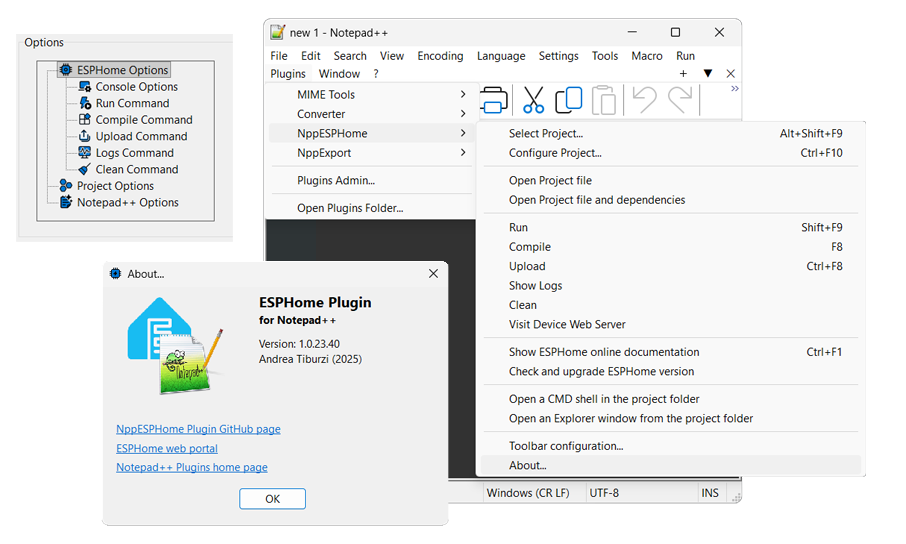
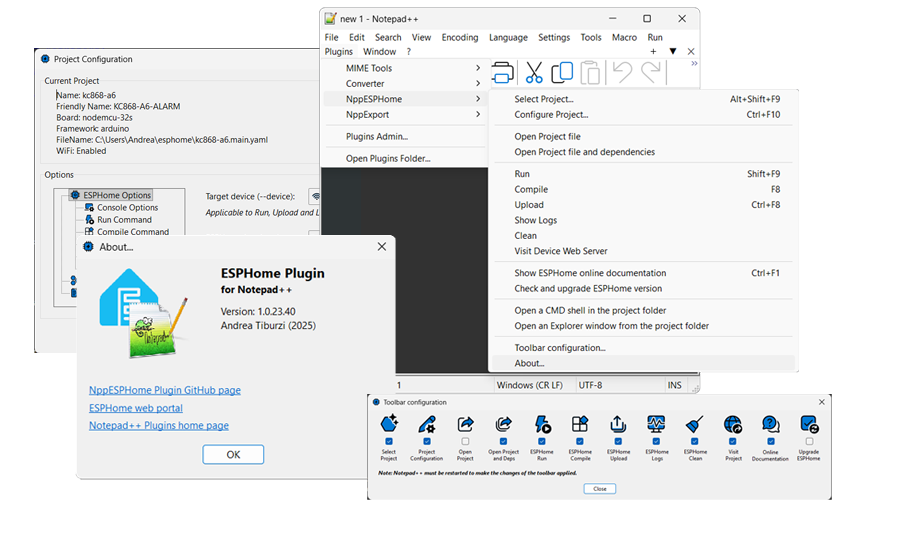
Readme update

diff --git a/README.md b/README.md
@@ -2,7 +2,7 @@
 
 A **Notepad++** plugin written in **Delphi** to directly interact with **ESPHome** and easily manage related projects in Windows environment.
 
-![NppESPHome in action](Art/NppESPHome.png)
+![NppESPHome in action](Art/group.png)
 
 ## Why?
 
@@ -14,27 +14,27 @@ That’s how the idea for this plugin was born.
 
 ## Features
 
-* Streamlined workflow – Designed around the ESPHome project concept, the plugin ensures a smooth, intuitive, and productive development experience.
+* **Streamlined workflow** – Designed around the ESPHome project concept, the plugin ensures a smooth, intuitive, and productive development experience.
 
-* Project configuration dialogs – Quickly select and configure your current project with dedicated setup windows directly inside Notepad++, fully supporting Light or Dark modes.
+* **Project configuration dialogs** – Quickly select and configure your current project with dedicated setup windows directly inside Notepad++, fully supporting Light or Dark modes.
 
-* One-click ESPHome commands – Automatically generates command lines for Run, Compile, Upload, Clean, and Logs. All commands are accessible from the plugin menu or can be assigned to custom keyboard shortcuts in Notepad++.
+* **One-click ESPHome commands** – Automatically generates command lines for Run, Compile, Upload, Clean, and Logs. All commands are accessible from the plugin menu or can be assigned to custom keyboard shortcuts in Notepad++.
 
-* Smart YAML validation – Parses your project’s YAML file to check validity and detect whether it includes Online or WebServer features.
+* **Smart YAML validation** – Parses your project’s YAML file to check validity and detect whether it includes Online or WebServer features.
 
-* Flexible device communication – Configure ESP device communication ports with automatic detection of active serial and network connections, making uploads and interaction effortless.
+* **Flexible device communication** – Configure ESP device communication ports with automatic detection of active serial and network connections, making uploads and interaction effortless.
 
-* Command customization – Personalize options for each ESPHome command and save them with your project settings.
+* **Command customization** – Personalize options for each ESPHome command and save them with your project settings.
 
-* Advanced configuration – Control logging behavior, automatic console closing, and define custom command-line arguments for advanced workflows.
+* **Advanced configuration** – Control logging behavior, automatic console closing, and define custom command-line arguments for advanced workflows.
 
-* Auto-save integration – Automatically saves your project files before executing ESPHome commands, helping you keep focus on development.
+* **Auto-save integration** – Automatically saves your project files before executing ESPHome commands, helping you keep focus on development.
 
-* Multi-source management – Supports a project dependency file, enabling simultaneous editing of multiple sources within the same project, with multi-file open and save to boost productivity.
+* **Multi-source management** – Supports a project dependency file, enabling simultaneous editing of multiple sources within the same project, with multi-file open and save to boost productivity.
 
-* Custom Notepad++ toolbar – An integrated, customizable toolbar provides direct access to the plugin’s main commands and functions.
+* **Custom Notepad++ toolbar** – An integrated, customizable toolbar provides direct access to the plugin’s main commands and functions.
 
-* Extra utilities – Includes handy non-ESPHome features such as:
+* **Extra utilities** – Includes handy non-ESPHome features such as:
     - Opening the official ESPHome web documentation
     - Updating ESPHome to the latest version
     - Launching a command prompt or file explorer directly from the project folder
@@ -63,20 +63,29 @@ As it is built for Notepad++, the editor must also be installed—version 8.0 or
 
 ## The Application
 
-### "Select Project" functionality
+### "Select Project" command
 
-When loaded, the plugin retrieve from the configuration file the current ESPHome project previusly selected.<br/>
-The selection and addition of a new project among the known projects can be done through the "Select Project..." function, which will open the following dialog:
+When the plugin is loaded, it retrieves from the configuration file the ESPHome project previously selected.  
+You can select an existing project or add a new one to the list of known projects using the **"Select Project..."** function, which opens the following dialog:
 
 ![Select Project](Art/select.png)
 
-The combo box list contains all the known ESPHome projects, and the selected one represent the current project for all the other plugin functionalities. To be selected, a project must be part of the project known list.<br/>
-To add an ESPHome project to the known list, press the button "Add project" and select the YAML file of your project; it requires a valid YAML project file content and it is analized to retrieve required information.<br/>
-In case of an invalid content, an error will be shown and it will not added to the known list.<br/>
-To remove an ESPHome project from the known list, select it and press the button "Remove Project".
+The combo box displays all known ESPHome projects. The project currently selected in this list will be used across all plugin functionalities.  
+To be selectable, a project must first be added to the list of known projects.
+
+-   **Add a project:** click "Add Project" and choose the YAML file of your project. The file must contain valid ESPHome project content, which will be analyzed to extract the required information. If the file content is invalid, an error message will be shown and the project will not be added.
+    
+-   **Remove a project:** select it from the list and click "Remove Project".
 
 
-...to be completed...
+### "Configure Project" command
+
+Once the current project has been selected, you can proceed with its configuration by defining how the plugin should interact with ESPHome and with Notepad++.  
+For example, you can decide the type of auto-save behavior for project files, configure how to handle console windows opened by ESPHome commands, customize the command line for each action, and much more.
+
+![Configure Project](Art/configure.png)
+
+These settings, defined on a per-project basis, are stored in the plugin’s configuration file.
 
 
 ## Installation
@@ -119,3 +128,9 @@ The following additional 3rd party libraries are required in order to compile th
   * [JEDI Visual Component Library ver 3.50](https://github.com/project-jedi/jvcl)
 
 Those libraries must be placed in the Delphi default library search path.
+
+## Future enhancements
+An idea I am starting to explore is introducing a dockable window in Notepad++ that lists all ESPHome component constructs. This would allow users to insert them into the project code with a single click, reducing the need to constantly refer to the documentation.  
+These constructs would be kept outside the source code itself, most likely in an XML file, easily maintained with a simple text editor to stay aligned with new ESPHome releases.
+
+It is also worth mentioning that the plugin is already designed with multilingual support in mind. So far, I haven’t felt the need to implement it, but it could be added in the future without major effort.
